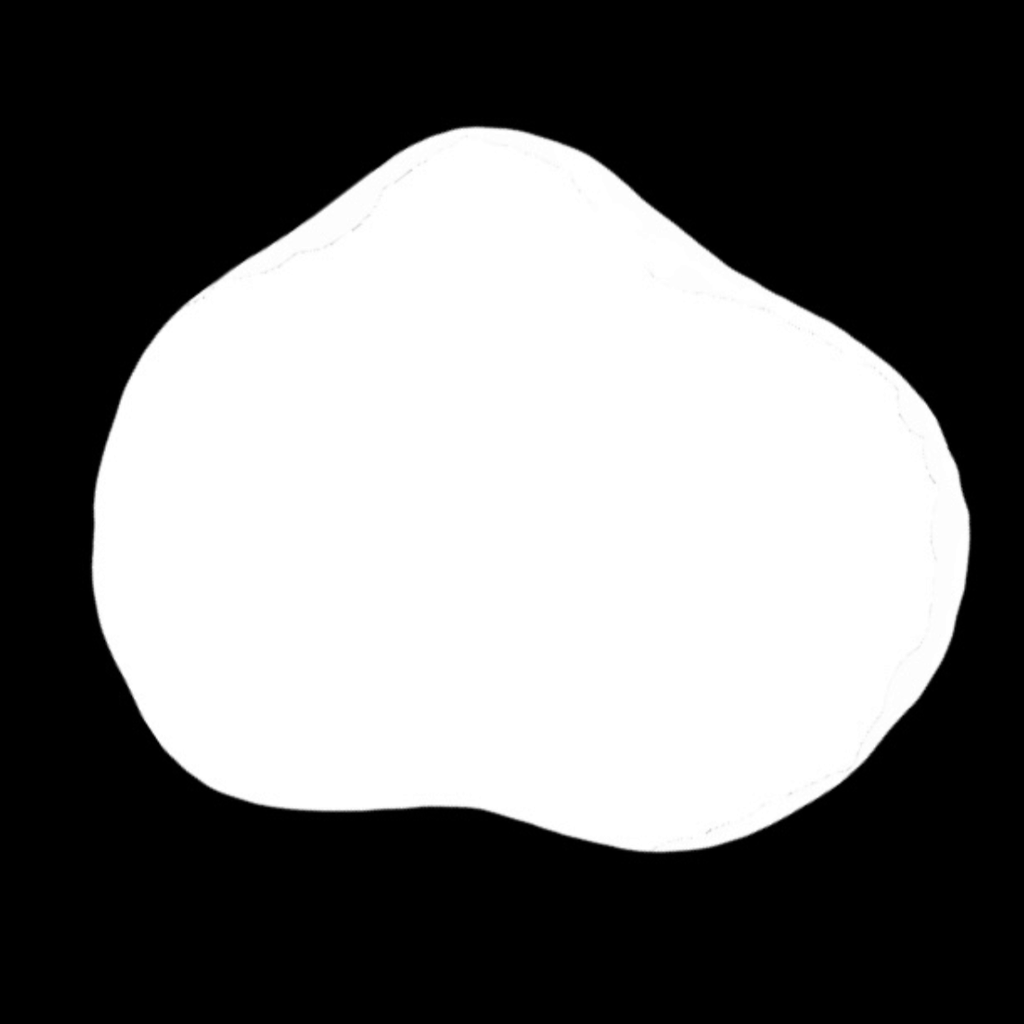
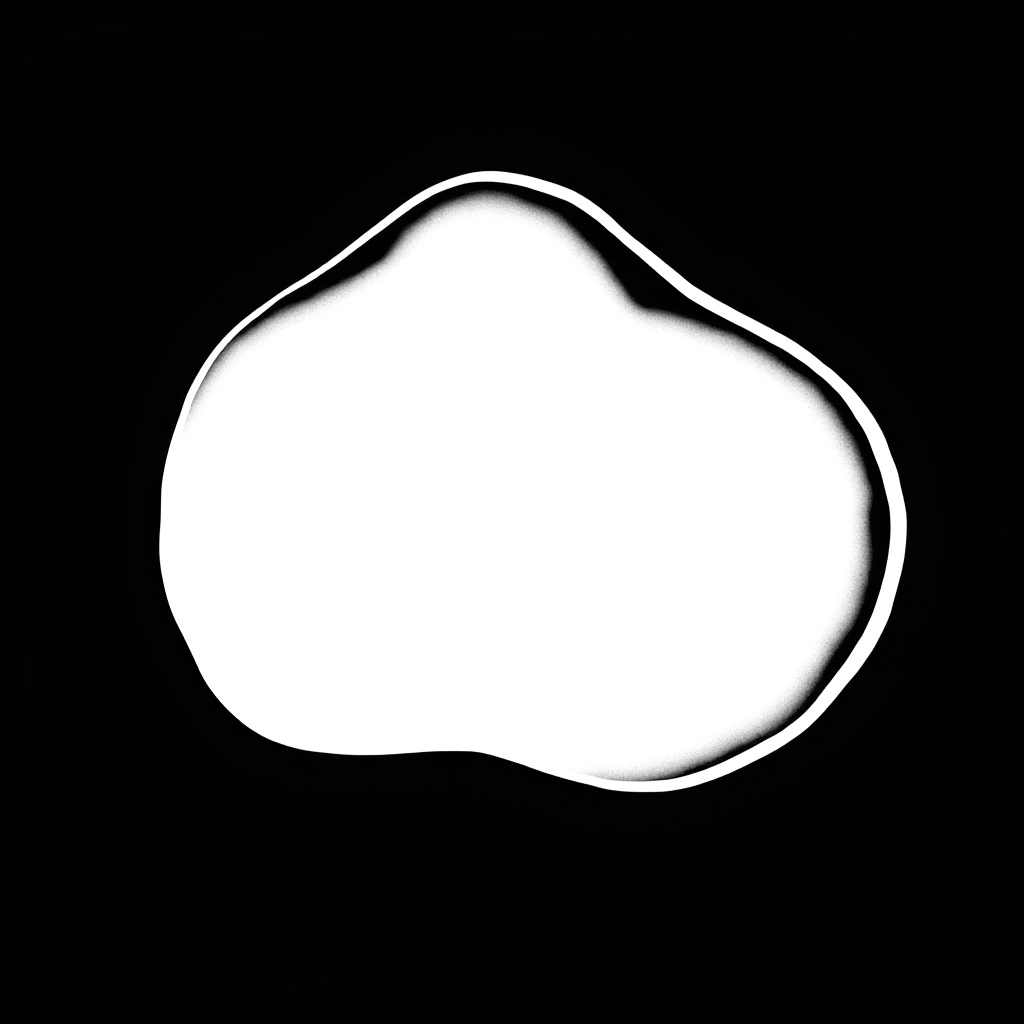
feat(canvas): 32-shape stock library + clone tips — AI-generated originals (not copies)
Owner decision: shipped tips must not be direct pixel copies of Procreate's
proprietary shapes. Procedural synthesis was rejected (quality). Solution:
generate ORIGINALS via fal Flux Kontext (fal-ai/flux-kontext/dev) — a
structure-preserving image edit that keeps each shape's silhouette + interior
grain while producing fresh pixels ("very similar, not identical", per owner).

- Stock shape library: 32 tips generated from Donald's Procreate Shape Library
  captures (ink blots, dry-brush streaks, soft→hard round ramp, halftone, full
  charcoal set, cloud, splash/splatter, palette knife, acrylics, leaves).
  Bundled + catalog entries; appear in Studio → Shape.
- Clone tips: stucco/nightjar/oldbeach PNGs REPLACED — the earlier build shipped
  direct screenshot extractions (IP risk); now Kontext originals of the same
  shapes. Preset recipes unchanged; tip-lightness recenter auto-adapts to the
  new luma means. Harness-verified the 3 presets render equivalently.

Pipeline (documents/research/krita-brush/16-brush-clones.md): extract Procreate
shape → clean grayscale init → Kontext vary-but-keep → threshold to coverage
mask. flux-2 img2img was tried first and rejected (scene-drift + artifacts);
Kontext is the right structure-preserving tool. No H100/custom model needed.

Validated: sim build green; clone presets render correctly through the shipped
catalog path; bundle 20 MB.

Claude-Session: https://claude.ai/code/session_018qj8wuom99TWReWUJ1Jhvh

Changed region(s): [[0.0625, 0.125, 0.9688, 0.8438]]

diff --git a/ios/Packages/CanvasModule/Sources/CanvasModule/BrushShapeCatalog.swift b/ios/Packages/CanvasModule/Sources/CanvasModule/BrushShapeCatalog.swift
@@ -43,11 +43,46 @@ public enum BrushShapeCatalog {
         BrushShapeDescriptor(id: "drybrush", displayName: "Dry Brush", resourceName: "drybrush"),
         BrushShapeDescriptor(id: "pastel", displayName: "Pastel", resourceName: "pastel", rotationJitter: true),
         BrushShapeDescriptor(id: "ink", displayName: "Spray", resourceName: "ink"),
-        // Cloned Procreate tips (2026-07-18, brush-target sessions): extracted from
-        // Shape Editor screenshots. See documents/research/krita-brush/16-brush-clones.md.
+        // Clone-brush tips (2026-07-18): ORIGINALS generated from Procreate Shape Editor
+        // captures via fal Flux Kontext (structure-preserving variation — NOT pixel copies).
+        // See documents/research/krita-brush/16-brush-clones.md.
         BrushShapeDescriptor(id: "stucco", displayName: "Stucco", resourceName: "stucco"),
         BrushShapeDescriptor(id: "nightjar", displayName: "Blob", resourceName: "nightjar"),
         BrushShapeDescriptor(id: "oldbeach", displayName: "Knife", resourceName: "oldbeach"),
+        // Stock shape library: originals generated the same way from Donald's Procreate
+        // Shape Library captures (Kontext variation of each). "import all as stock shapes."
+        BrushShapeDescriptor(id: "lib_chinese_ink", displayName: "Chinese Ink", resourceName: "lib_chinese_ink"),
+        BrushShapeDescriptor(id: "lib_ink_sponge", displayName: "Ink Sponge", resourceName: "lib_ink_sponge"),
+        BrushShapeDescriptor(id: "lib_ink_dry", displayName: "Ink Dry", resourceName: "lib_ink_dry"),
+        BrushShapeDescriptor(id: "lib_ink2", displayName: "Ink 2", resourceName: "lib_ink2"),
+        BrushShapeDescriptor(id: "lib_ink_grain", displayName: "Ink Grain", resourceName: "lib_ink_grain"),
+        BrushShapeDescriptor(id: "lib_ink_pounce", displayName: "Ink Pounce", resourceName: "lib_ink_pounce"),
+        BrushShapeDescriptor(id: "lib_char_disc", displayName: "Charcoal Disc", resourceName: "lib_char_disc"),
+        BrushShapeDescriptor(id: "lib_flat_brush", displayName: "Flat Brush", resourceName: "lib_flat_brush"),
+        BrushShapeDescriptor(id: "lib_flat_marker", displayName: "Flat Marker", resourceName: "lib_flat_marker"),
+        BrushShapeDescriptor(id: "lib_flat_brush2", displayName: "Flat Brush 2", resourceName: "lib_flat_brush2"),
+        BrushShapeDescriptor(id: "lib_small_point", displayName: "Small Point", resourceName: "lib_small_point"),
+        BrushShapeDescriptor(id: "lib_ultra_soft", displayName: "Ultra Soft", resourceName: "lib_ultra_soft"),
+        BrushShapeDescriptor(id: "lib_soft", displayName: "Soft", resourceName: "lib_soft"),
+        BrushShapeDescriptor(id: "lib_medium", displayName: "Medium", resourceName: "lib_medium"),
+        BrushShapeDescriptor(id: "lib_medium_hard", displayName: "Medium Hard", resourceName: "lib_medium_hard"),
+        BrushShapeDescriptor(id: "lib_hard", displayName: "Hard", resourceName: "lib_hard"),
+        BrushShapeDescriptor(id: "lib_halftone", displayName: "Halftone", resourceName: "lib_halftone"),
+        BrushShapeDescriptor(id: "lib_char_block", displayName: "Charcoal Block", resourceName: "lib_char_block"),
+        BrushShapeDescriptor(id: "lib_char_macro", displayName: "Charcoal Macro", resourceName: "lib_char_macro"),
+        BrushShapeDescriptor(id: "lib_char_shards", displayName: "Charcoal Shards", resourceName: "lib_char_shards"),
+        BrushShapeDescriptor(id: "lib_char_soft", displayName: "Charcoal Soft", resourceName: "lib_char_soft"),
+        BrushShapeDescriptor(id: "lib_char_wisp", displayName: "Charcoal Wisp", resourceName: "lib_char_wisp"),
+        BrushShapeDescriptor(id: "lib_cloud", displayName: "Cloud", resourceName: "lib_cloud"),
+        BrushShapeDescriptor(id: "lib_splash", displayName: "Splash", resourceName: "lib_splash"),
+        BrushShapeDescriptor(id: "lib_splatter", displayName: "Splatter", resourceName: "lib_splatter"),
+        BrushShapeDescriptor(id: "lib_oil_smear", displayName: "Oil Smear", resourceName: "lib_oil_smear"),
+        BrushShapeDescriptor(id: "lib_palette", displayName: "Palette Knife", resourceName: "lib_palette"),
+        BrushShapeDescriptor(id: "lib_paint_flakes", displayName: "Paint Flakes", resourceName: "lib_paint_flakes"),
+        BrushShapeDescriptor(id: "lib_ridge", displayName: "Ridge Print", resourceName: "lib_ridge"),
+        BrushShapeDescriptor(id: "lib_acrylic_square", displayName: "Acrylic Square", resourceName: "lib_acrylic_square"),
+        BrushShapeDescriptor(id: "lib_leaves", displayName: "Leaves", resourceName: "lib_leaves"),
+        BrushShapeDescriptor(id: "lib_rocks", displayName: "Rocks", resourceName: "lib_rocks"),
     ]
 
     public static func descriptor(for id: String?) -> BrushShapeDescriptor {

diff --git a/documents/research/krita-brush/16-brush-clones.md b/documents/research/krita-brush/16-brush-clones.md
@@ -49,6 +49,26 @@ interior) — biggest engine gap this session surfaced; Height grain blend.
    Intense/Uniformed Glaze density correctly.
 3. Wet Edges 0/50/100 sweep — to spec the edge effect before building it.
 
+## Original-shape generation (2026-07-18) — DO NOT ship extracted Procreate tips
+
+Owner decision: the shipped tips must not be direct pixel copies of Procreate's
+proprietary shapes (IP). Two approaches tried:
+
+- **Procedural synthesis** (`scratchpad/gen-shapes.py`, numpy): rounds/halftone/
+  spatter/charcoal render fine, but organic tips (ink blot, palette knife, smear)
+  look artificial. **Rejected** by owner — quality bar not met.
+- **fal.ai `fal-ai/flux-2` img2img** (NOT our H100 — klein is reference-mode-only,
+  can't do strength-based partial-denoise). Endpoint: `POST https://fal.run/fal-ai/
+  flux-2` with `image_url` (data URI) + `strength`, sync, ~4-6 s/image, `FAL_KEY`
+  from `backend/.env.local`. Produces genuinely original, high-quality ink/paint
+  textures. Findings: (1) flux reads "black shape on white" as a PHOTO of paint on
+  paper — must prompt out paper texture / torn edges / border / shadow or the mask
+  gets a solid-rectangle rim; (2) it reinterprets the silhouette rather than closely
+  copying — good for originality, weaker for matching a specific target shape;
+  strength ~0.3 keeps shape, ~0.6+ reimagines it. Scripts: `scratchpad/fal-sweep.py`,
+  `fal-refine.py`. **This is the promising path** — tune strength + prompt, then
+  clean+threshold outputs to masks.
+
 ## Unused tip library (ready to mine)
 30 more extracted-ready Shape Editor captures on Desktop: ink blots (0234–0240),
 splashes (0258/0259), dry-brush streaks (0241–0243), hardness ramp (0244–0250),
